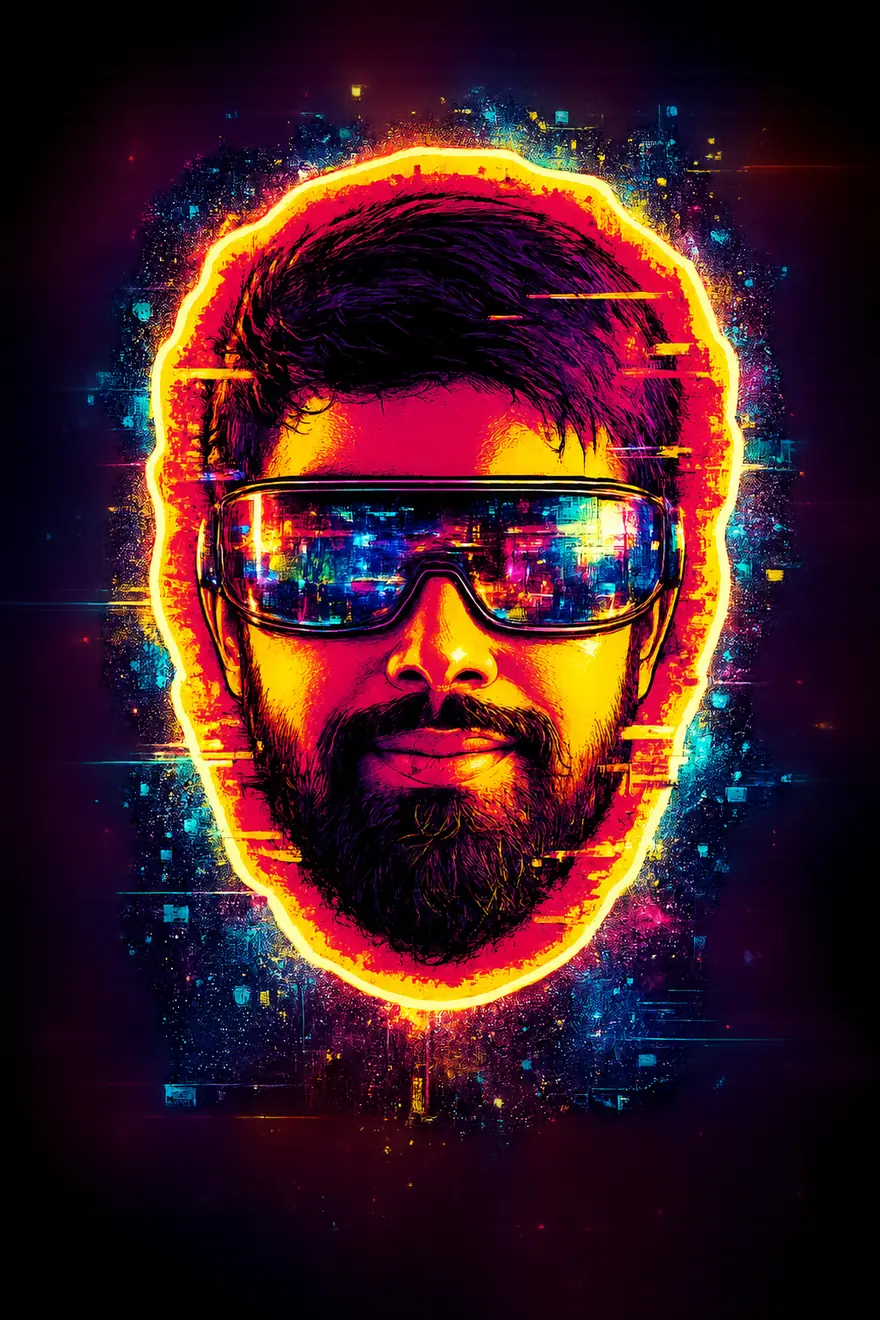
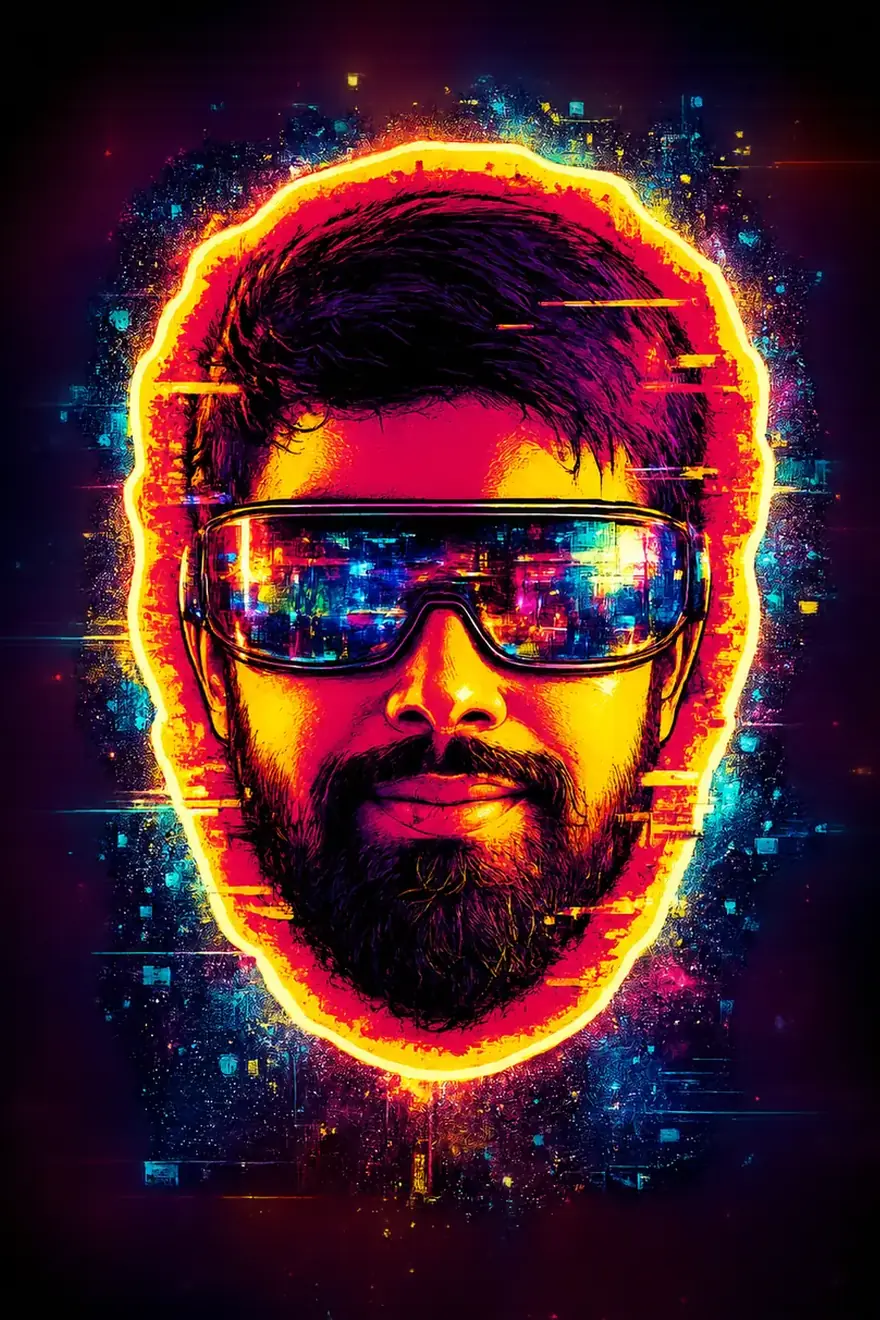
Portraits: add 4th expression (eyebrow up) to the swap loop; normalize all head sizes
The glitch now cycles four pictures: neutral, smile, grin, eyebrow-up (faraz-neon-brow.webp). All four heads normalized to the grin's size (~76% frame height) and centered, so the picture stays the same scale as it swaps. Neutral and smile were scaled up ~7-9%, eyebrow-up ~2%, grin unchanged as the reference.

diff --git a/frontend/src/components/hero/HeroFusion.jsx b/frontend/src/components/hero/HeroFusion.jsx
@@ -31,10 +31,11 @@ import {
 
 const EASE = [0.23, 1, 0.32, 1];
 const CARTOON = "/images/faraz-neon.webp";
-/* Alternate expressions, revealed at random during glitches */
+/* Alternate expressions, swapped in during glitches */
 const ALT_CARTOONS = [
   "/images/faraz-neon-smile.webp",
   "/images/faraz-neon-grin.webp",
+  "/images/faraz-neon-brow.webp",
 ];
 
 /* Statement slot phrases. The first is the resting line. */
